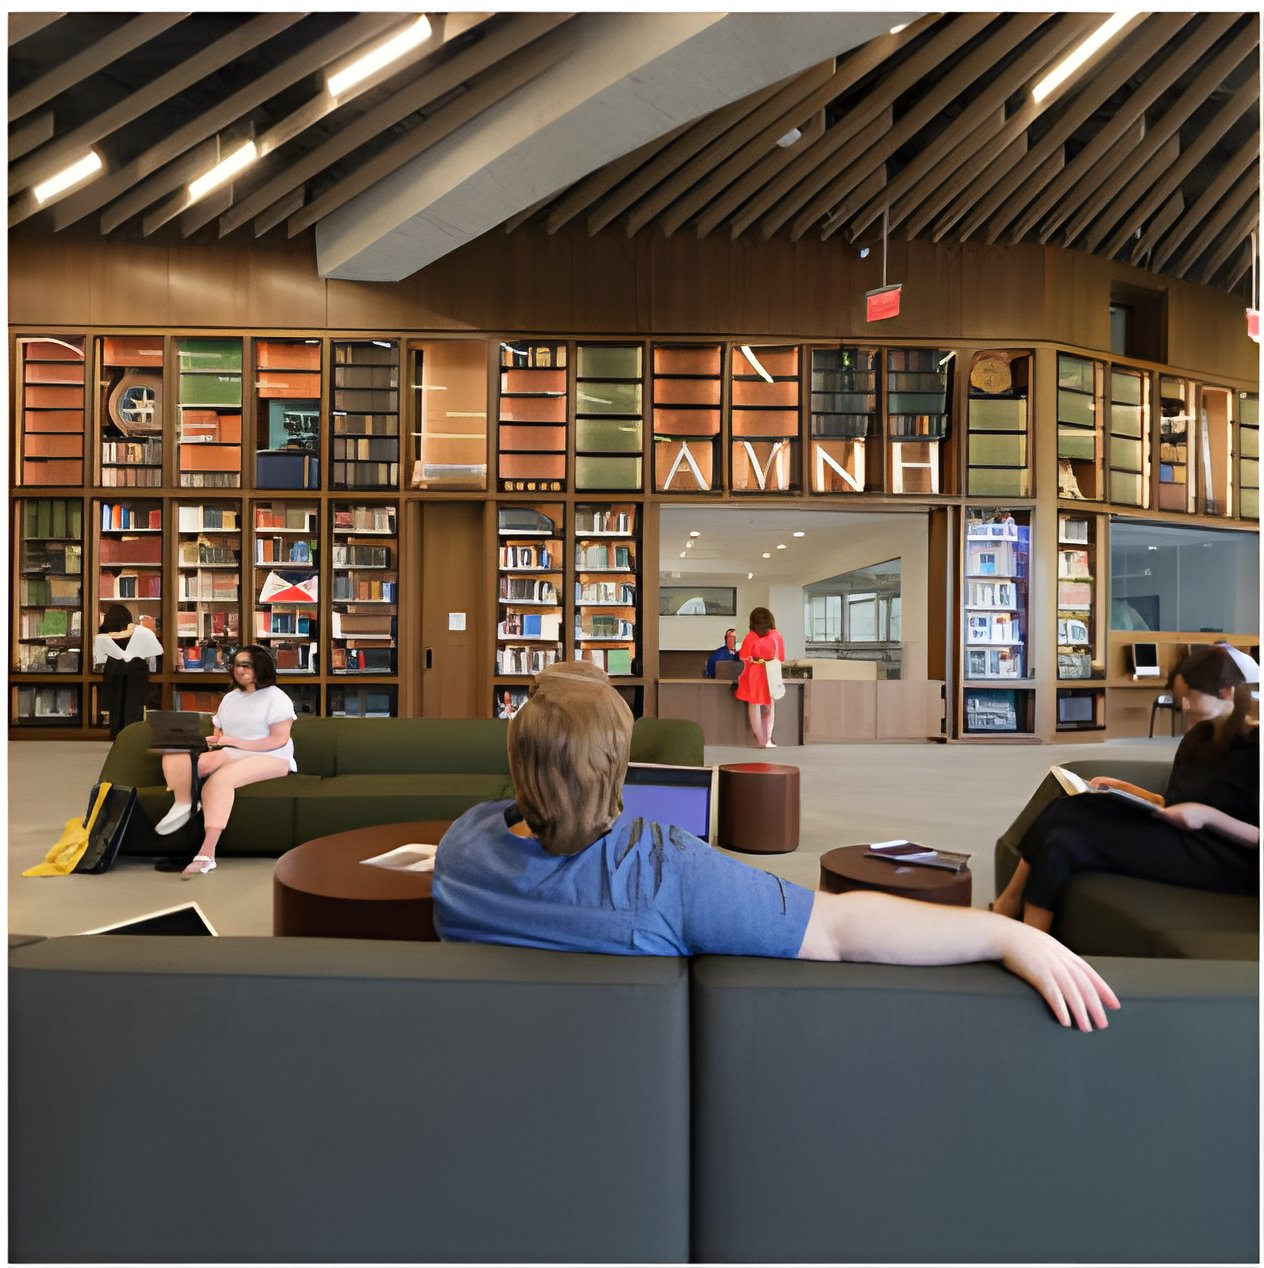
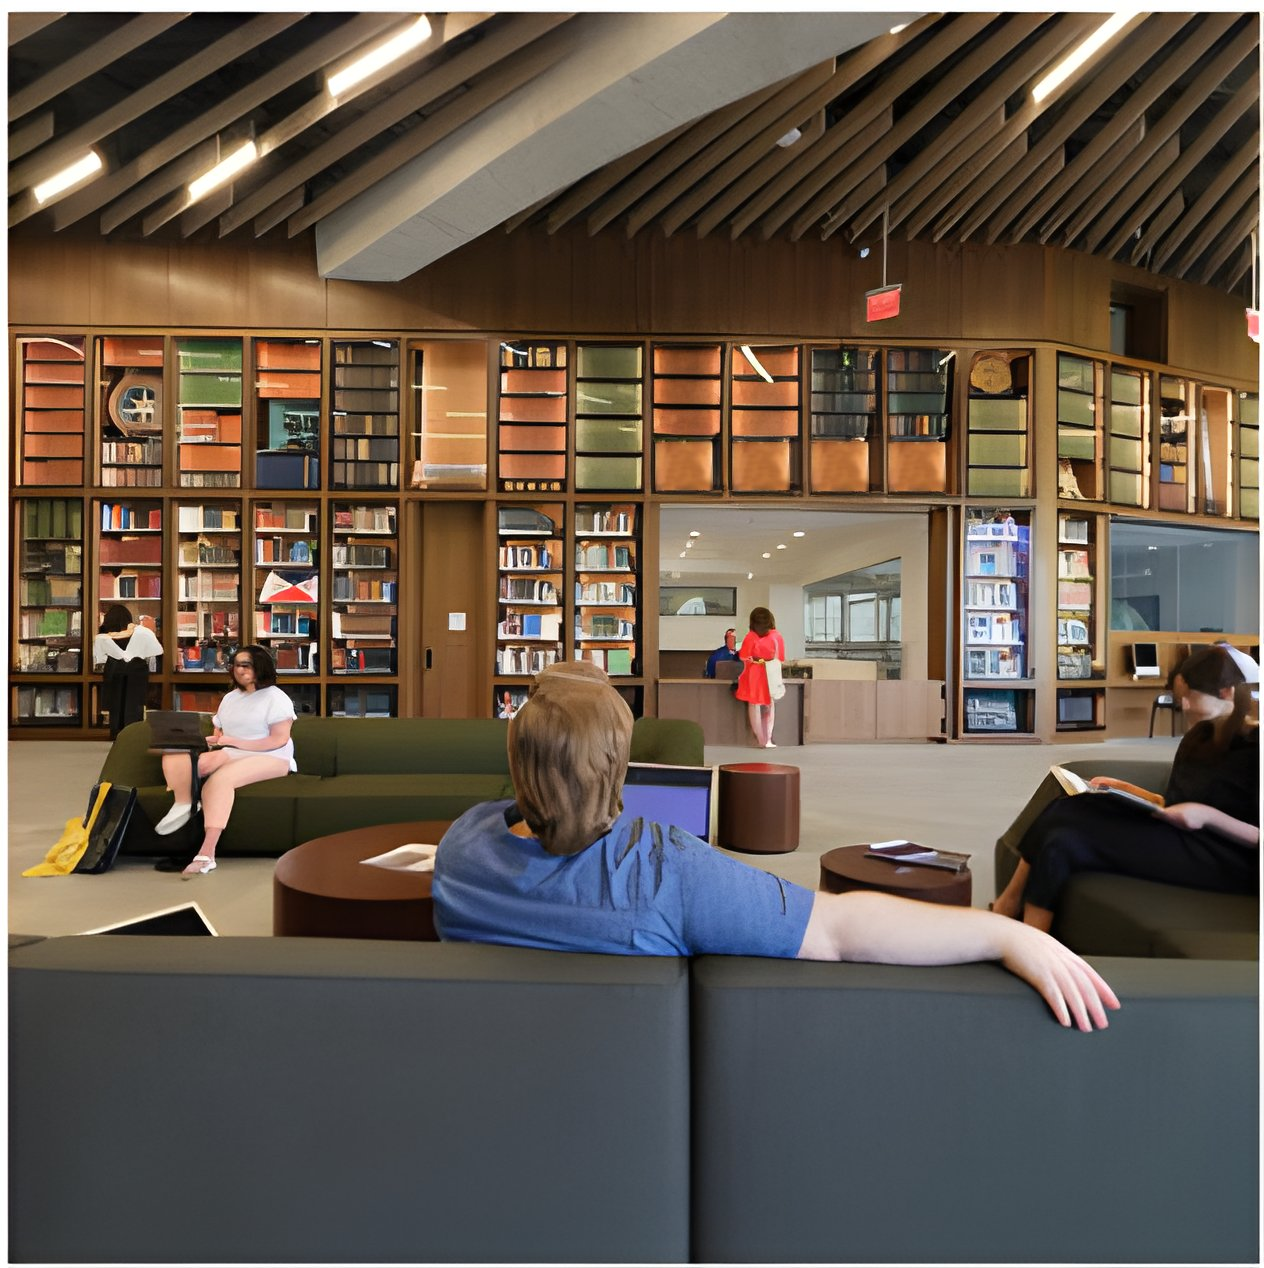
Update landing page and Learning Center flow

Changed region(s): [[0.5245, 0.3383, 0.7714, 0.3998]]

diff --git a/telepathybeginner.html b/telepathybeginner.html
@@ -55,19 +55,19 @@
       visibility: hidden;
     }
   </style>
-  <link rel="manifest" href="telepathybeginner.webmanifest?v=20260807b">
+  <link rel="manifest" href="telepathybeginner.webmanifest?v=20260807c">
   <meta name="theme-color" content="#050505">
-  <link rel="icon" type="image/png" sizes="32x32" href="tb-icon-192.png?v=20260807b">
-  <link rel="icon" type="image/png" sizes="192x192" href="tb-icon-192.png?v=20260807b">
-  <link rel="shortcut icon" href="tb-icon-192.png?v=20260807b">
+  <link rel="icon" type="image/png" sizes="32x32" href="tb-icon-192.png?v=20260807c">
+  <link rel="icon" type="image/png" sizes="192x192" href="tb-icon-192.png?v=20260807c">
+  <link rel="shortcut icon" href="tb-icon-192.png?v=20260807c">
   <meta name="apple-mobile-web-app-capable" content="yes">
   <meta name="apple-mobile-web-app-status-bar-style" content="black">
-  <link rel="apple-touch-icon" href="tb-icon-192.png?v=20260807b">
-  <link rel="stylesheet" href="telepathybeginner.css?v=20260807b">
-  <link rel="stylesheet" href="vendor/leaflet/leaflet.css?v=20260807b">
+  <link rel="apple-touch-icon" href="tb-icon-192.png?v=20260807c">
+  <link rel="stylesheet" href="telepathybeginner.css?v=20260807c">
+  <link rel="stylesheet" href="vendor/leaflet/leaflet.css?v=20260807c">
   <script>
     (function () {
-      var buildVersion = "20260807b";
+      var buildVersion = "20260807c";
       try {
         var currentUrl = new URL(window.location.href);
         if (currentUrl.searchParams.get("v") !== buildVersion) {
@@ -554,7 +554,7 @@
             <button class="beginner-top-button beginner-top-pill beginner-top-button-back beginner-top-button-right" type="button" data-close-options>
               Back
             </button>
-            <span class="beginner-top-version" data-app-version-label>ver. 20260807b</span>
+            <span class="beginner-top-version" data-app-version-label>ver. 20260807c</span>
           </div>
         </div>
 
@@ -642,11 +642,8 @@
             </article>
             <article class="temporary-home-card">
               <h3 class="temporary-home-section-title">Guided ESP Development</h3>
-              <p class="temporary-home-section-copy">ESP GYM includes a unique course in telepathy with explanatory frameworks and techniques that can help users understand and strengthen psi sensitivity.</p>
-            </article>
-            <article class="temporary-home-card">
-              <h3 class="temporary-home-section-title">Experimental and Research-Oriented Tools</h3>
-              <p class="temporary-home-section-copy">ESP GYM is built to support careful personal experimentation. It also supports formal data collection programs.</p>
+              <p class="temporary-home-section-copy">ESP GYM includes a unique course in telepathy with explanatory frameworks and techniques that can help users understand, measure, and strengthen psi sensitivity. In addition to supporting careful personal experimentation, it also supports formal data collection research.</p>
+              <button class="options-button temporary-home-card-button" type="button" data-open-temporary-home-learning-center>Explore Course</button>
             </article>
           </section>
 
@@ -855,9 +852,9 @@
 
             <section class="online-course-tab-panel" id="learningCenterTabWelcome" role="tabpanel" aria-labelledby="learningCenterTabButtonWelcome" data-learning-center-panel="welcome">
               <div class="about-section">
-                <p class="about-section-copy">Welcome to the Learning Center. This is the structured home for the ESP GYM course and its supporting tools.</p>
-                <p class="about-section-copy">Here you can learn the ideas behind the tools, follow a suggested path through the lessons, and jump directly to the tools and pages you want to visit at any given time.</p>
-                <p class="about-section-copy">The course focuses on recognizing subtle visual information in the mind's eye, understanding what affects telepathic performance, and building skill through knowledge and practice.</p>
+                <p class="about-section-copy">Welcome to the Learning Center. This is the home for the ESP GYM course.</p>
+                <p class="about-section-copy">The course focuses on building skill through knowledge and practice.</p>
+                <p class="about-section-copy">From here you can also jump to many supporting tools and pages and return.</p>
               </div>
             </section>
 
@@ -2700,8 +2697,8 @@
               <button class="options-button settings-view-save" type="button" data-admin-clear-localstorage>Clear localStorage</button>
               <button class="options-button settings-view-save" type="button" data-admin-run-reminders>Run Annual Reminder Scan</button>
               <button class="options-button settings-view-save" type="button" data-admin-run-reminders-test>Send Annual Reminder Test</button>
-              <button class="options-button settings-view-save" type="button" onclick="window.location.href='./BeginnerUserManual_preserved_20260625.html?v=20260807b'">Old HELP</button>
-              <button class="options-button settings-view-save" type="button" onclick="window.location.href='telepathybeginner-email-test.html?v=20260807b'">Send Email</button>
+              <button class="options-button settings-view-save" type="button" onclick="window.location.href='./BeginnerUserManual_preserved_20260625.html?v=20260807c'">Old HELP</button>
+              <button class="options-button settings-view-save" type="button" onclick="window.location.href='telepathybeginner-email-test.html?v=20260807c'">Send Email</button>
             </div>
 
               <pre class="report-definition-debug" data-admin-disk-usage hidden></pre>
@@ -3491,8 +3488,8 @@
     });
     window.addEventListener("pageshow", scrollToTopOnLaunch);
   </script>
-<script src="vendor/leaflet/leaflet.js?v=20260807b"></script>
-<script src="telepathybeginner.js?v=20260807b"></script>
+<script src="vendor/leaflet/leaflet.js?v=20260807c"></script>
+<script src="telepathybeginner.js?v=20260807c"></script>
 </body>
 </html>
 

diff --git a/telepathybeginner.js b/telepathybeginner.js
@@ -9,7 +9,7 @@
   const deviceTestRestoreSnapshotKey = "cones-device-test-restore-snapshot-v1";
   const deviceTestNoticeKey = "cones-device-test-notice-v1";
   const suppressLauncherProfileSavesKey = "cones-suppress-launcher-profile-saves-v1";
-  const launcherBuildVersion = "20260807b";
+  const launcherBuildVersion = "20260807c";
   let pendingGuidedTourContinuationMode = "";
   let pendingGuidedTourCompletionNoticeRole = "";
   const guidedTourCompletionNoticeText = "This completes this round of the Guided Tour. Feel free to explore Level 2 and Level 3 by changing the level and pressing GO.";
@@ -530,6 +530,7 @@
   const temporaryHomePageInvitationStatus = document.querySelector("[data-temporary-home-invitation-status]");
   const temporaryHomePageFreshOpenButton = document.querySelector("[data-temporary-home-open-fresh]");
   const temporaryHomePageExploreButton = document.querySelector("[data-temporary-home-explore]");
+  const temporaryHomePageLearningCenterButton = document.querySelector("[data-open-temporary-home-learning-center]");
   const openLandingPageButton = document.querySelector("[data-open-landing-page]");
   const temporaryHomePageClairvoyanceButton = document.querySelector("[data-temporary-home-clairvoyance]");
   const temporaryHomePageContactButton = document.querySelector("[data-open-temporary-home-contact]");
@@ -21211,8 +21212,16 @@ This is an alternate test message to show now.`;
   function closeLearningCenterView() {
     const targetView = String(learningCenterReturnTarget?.view || "options").trim();
     const targetRole = String(learningCenterReturnTarget?.role || "").trim();
+    const targetScrollY = Math.max(0, Number(learningCenterReturnTarget?.scrollY || 0) || 0);
     if ((targetView === "launcher" || targetView === "clairvoyance-viewing") && targetRole) {
       showRoleCourseTarget(targetRole);
+      return;
+    }
+    if (targetView === "temporary-home-page") {
+      showTemporaryHomePageView();
+      requestAnimationFrame(() => {
+        window.scrollTo({ top: targetScrollY, left: 0, behavior: "auto" });
+      });
       return;
     }
     if (targetView === "report-definition") {
@@ -28113,6 +28122,13 @@ This is an alternate test message to show now.`;
   temporaryHomePageFreshOpenButton?.addEventListener("click", startVisitorLandingEntry);
   temporaryHomePageExploreButton?.addEventListener("click", () => {
     void handleLandingExploreClick();
+  });
+  temporaryHomePageLearningCenterButton?.addEventListener("click", () => {
+    showLearningCenterView({
+      view: "temporary-home-page",
+      scrollY: Math.max(0, Number(window.scrollY ?? window.pageYOffset ?? 0) || 0),
+      tab: "welcome"
+    });
   });
   openTelepathyDifficultyGuideButtons.forEach((button) => {
     button.addEventListener("click", showTelepathyDifficultyGuideView);

diff --git a/sender.html b/sender.html
@@ -50,11 +50,11 @@
       }
     })();
   </script>
-  <link rel="stylesheet" href="telepathy.css?v=20260807b">
+  <link rel="stylesheet" href="telepathy.css?v=20260807c">
 </head>
 <body data-role="sender">
   <main class="screen">
-    <a class="home-link" href="telepathybeginner.html?v=20260807b&amp;open=launcher" aria-label="Go to Telepathy Beginner">&#8962;</a>
+    <a class="home-link" href="telepathybeginner.html?v=20260807c&amp;open=launcher" aria-label="Go to Telepathy Beginner">&#8962;</a>
     <button class="waiting-back-button hidden" id="waitingBackButton" type="button" aria-label="Return to Telepathy Beginner home">BACK</button>
     <button class="settings-gear" id="settingsGear" type="button" aria-label="Open settings">&#9881;</button>
     <div class="countdown-box" id="countdownBox" aria-live="polite">
@@ -72,7 +72,7 @@
       </div>
     </div>
   </main>
-    <script src="telepathy.js?v=20260807b"></script>
+    <script src="telepathy.js?v=20260807c"></script>
   </body>
   </html>
 

diff --git a/receiver.html b/receiver.html
@@ -49,11 +49,11 @@
       }
     })();
   </script>
-  <link rel="stylesheet" href="telepathy.css?v=20260807b">
+  <link rel="stylesheet" href="telepathy.css?v=20260807c">
 </head>
 <body data-role="receiver">
   <main class="screen">
-    <a class="home-link" href="telepathybeginner.html?v=20260807b&amp;open=launcher" aria-label="Go to Telepathy Beginner">&#8962;</a>
+    <a class="home-link" href="telepathybeginner.html?v=20260807c&amp;open=launcher" aria-label="Go to Telepathy Beginner">&#8962;</a>
     <button class="waiting-back-button hidden" id="waitingBackButton" type="button" aria-label="Return to Telepathy Beginner home">BACK</button>
     <button class="settings-gear" id="settingsGear" type="button" aria-label="Open settings">&#9881;</button>
     <div class="countdown-box" id="countdownBox" aria-live="polite">
@@ -84,6 +84,6 @@
       </div>
     </section>
   </main>
-  <script src="telepathy.js?v=20260807b"></script>
+  <script src="telepathy.js?v=20260807c"></script>
 </body>
 </html>

diff --git a/globe/index.html b/globe/index.html
@@ -4,7 +4,7 @@
   <meta charset="UTF-8">
   <meta name="viewport" content="width=device-width, initial-scale=1.0">
   <title>Location Visualization</title>
-  <link rel="stylesheet" href="./globe.css?v=20260807b">
+  <link rel="stylesheet" href="./globe.css?v=20260807c">
 </head>
   <body>
   <main class="globe-page">
@@ -54,10 +54,10 @@
 
   <script src="https://unpkg.com/three@0.166.1/build/three.min.js"></script>
   <script src="https://unpkg.com/globe.gl@2.32.1/dist/globe.gl.min.js"></script>
-  <script src="./globe-config.js?v=20260807b"></script>
-  <script src="./globe-data.js?v=20260807b"></script>
-  <script src="./globe-ui.js?v=20260807b"></script>
-  <script src="./globe.js?v=20260807b"></script>
+  <script src="./globe-config.js?v=20260807c"></script>
+  <script src="./globe-data.js?v=20260807c"></script>
+  <script src="./globe-ui.js?v=20260807c"></script>
+  <script src="./globe.js?v=20260807c"></script>
 </body>
 </html>
 

diff --git a/telepathy.js b/telepathy.js
@@ -48,7 +48,7 @@
   const launcherStorageKey = "cones-beginner-launcher-v2";
   const arrangementHistoryKey = "conesArrangementHistory-v2";
   const exportSchemaVersion = "cones-trials-v5";
-  const runtimeBuildVersion = "20260807b";
+  const runtimeBuildVersion = "20260807c";
   const runtimePageInstanceId = `runtime-${role}-${Date.now()}-${Math.random().toString(36).slice(2, 8)}`;
   const runtimeQuery = (() => {
     try {
@@ -85,7 +85,7 @@
   const isGuidedSenderTour = role === "sender" && guidedTourMode === "sender-experience";
   const isGuidedExperienceTour = isGuidedReceiverTour || isGuidedSenderTour;
   const robotSimulationIdentifier = "Robot";
-  const launcherBuildVersion = "20260807b";
+  const launcherBuildVersion = "20260807c";
   const suspiciousProbeTextFragments = [
     String.fromCharCode(0x00C3),
     String.fromCharCode(0x00E2, 0x20AC, 0x2122),

diff --git a/telepathybeginner-sw.js b/telepathybeginner-sw.js
@@ -1,5 +1,5 @@
-const CACHE_NAME = "telepathybeginner-v20260807b";
-const APP_VERSION = "20260807b";
+const CACHE_NAME = "telepathybeginner-v20260807c";
+const APP_VERSION = "20260807c";
 const APP_LAUNCH_URL = `./telepathybeginner.html?v=${APP_VERSION}&open=launcher`;
 const APP_ASSETS = [
   "./",
@@ -23,7 +23,7 @@ const APP_ASSETS = [
   "./tb-test-icon-3.png",
   "./tb-test-icon-4.png",
   "./BeginnerUserManual.html",
-  `./BeginnerUserManual.html?v=20260807b`,
+  `./BeginnerUserManual.html?v=20260807c`,
   "./minds-connected-uncropped.png",
   "./rewire.png",
   "./RV1.png",

diff --git a/index.html b/index.html
@@ -2,12 +2,12 @@
 <html lang="en">
 <head>
   <meta charset="UTF-8">
-  <meta http-equiv="refresh" content="0; url=telepathybeginner.html?v=20260807b&open=landing">
+  <meta http-equiv="refresh" content="0; url=telepathybeginner.html?v=20260807c&open=landing">
   <meta name="viewport" content="width=device-width, initial-scale=1.0">
   <title>ESP GYM</title>
 </head>
 <body>
-  <p><a href="telepathybeginner.html?v=20260807b&open=landing">Open ESP GYM</a></p>
+  <p><a href="telepathybeginner.html?v=20260807c&open=landing">Open ESP GYM</a></p>
 </body>
 </html>
 

diff --git a/telepathybeginner-email-test.html b/telepathybeginner-email-test.html
@@ -4,7 +4,7 @@
   <meta charset="UTF-8">
   <meta name="viewport" content="width=device-width, initial-scale=1.0">
   <title>Telepathy Beginner Email Test</title>
-  <link rel="stylesheet" href="telepathybeginner.css?v=20260807b">
+  <link rel="stylesheet" href="telepathybeginner.css?v=20260807c">
 </head>
 <body>
   <main class="beginner-shell">
@@ -51,7 +51,7 @@
     </section>
   </main>
 
-  <script src="telepathybeginner-email-test.js?v=20260807b"></script>
+  <script src="telepathybeginner-email-test.js?v=20260807c"></script>
 </body>
 </html>
 

diff --git a/telepathybeginner.css b/telepathybeginner.css
@@ -4309,7 +4309,7 @@ html.launcher-direct-open-pending body {
   background:
     linear-gradient(180deg, rgba(6, 10, 16, 0.02), rgba(6, 10, 16, 0.18)),
     linear-gradient(120deg, rgba(7, 12, 18, 0.36) 0%, rgba(7, 12, 18, 0.1) 38%, rgba(7, 12, 18, 0.28) 100%),
-    url("learning-center-hero.jpg?v=20260807b") center calc(50% - 18px) / cover no-repeat;
+    url("learning-center-hero.jpg?v=20260807c") center calc(50% - 18px) / cover no-repeat;
   box-shadow:
     inset 0 1px 0 rgba(255, 255, 255, 0.06),
     0 22px 44px rgba(0, 0, 0, 0.3);

diff --git a/globe/globe.js b/globe/globe.js
@@ -32,7 +32,7 @@
   }
 
   const query = dataApi.parseQueryParams();
-  const fallbackHomeUrl = `../telepathybeginner.html?v=${encodeURIComponent(query.version || "20260807b")}&open=launcher`;
+  const fallbackHomeUrl = `../telepathybeginner.html?v=${encodeURIComponent(query.version || "20260807c")}&open=launcher`;
   let globe = null;
   let renderedConnections = [];
   let renderedPoints = [];
